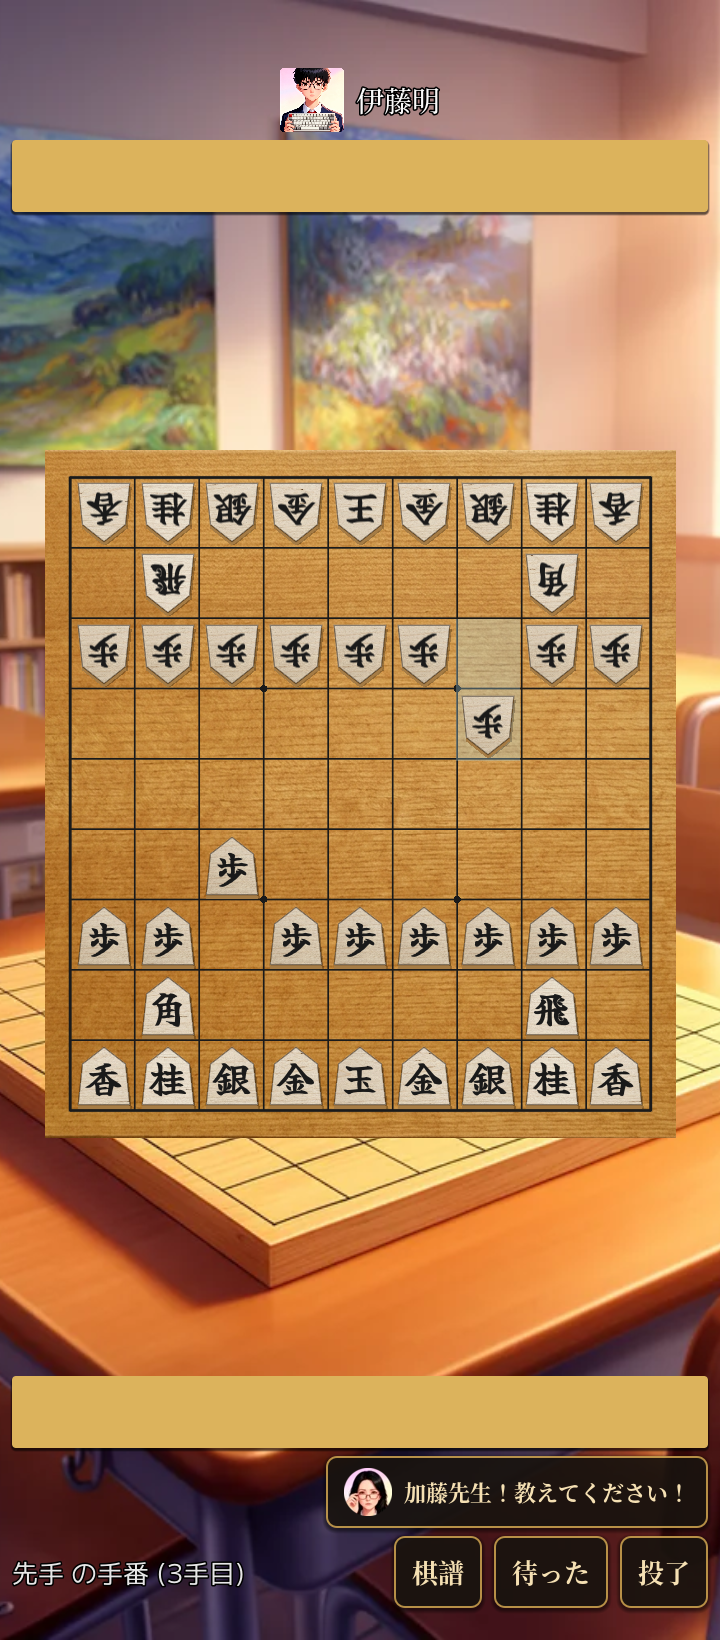
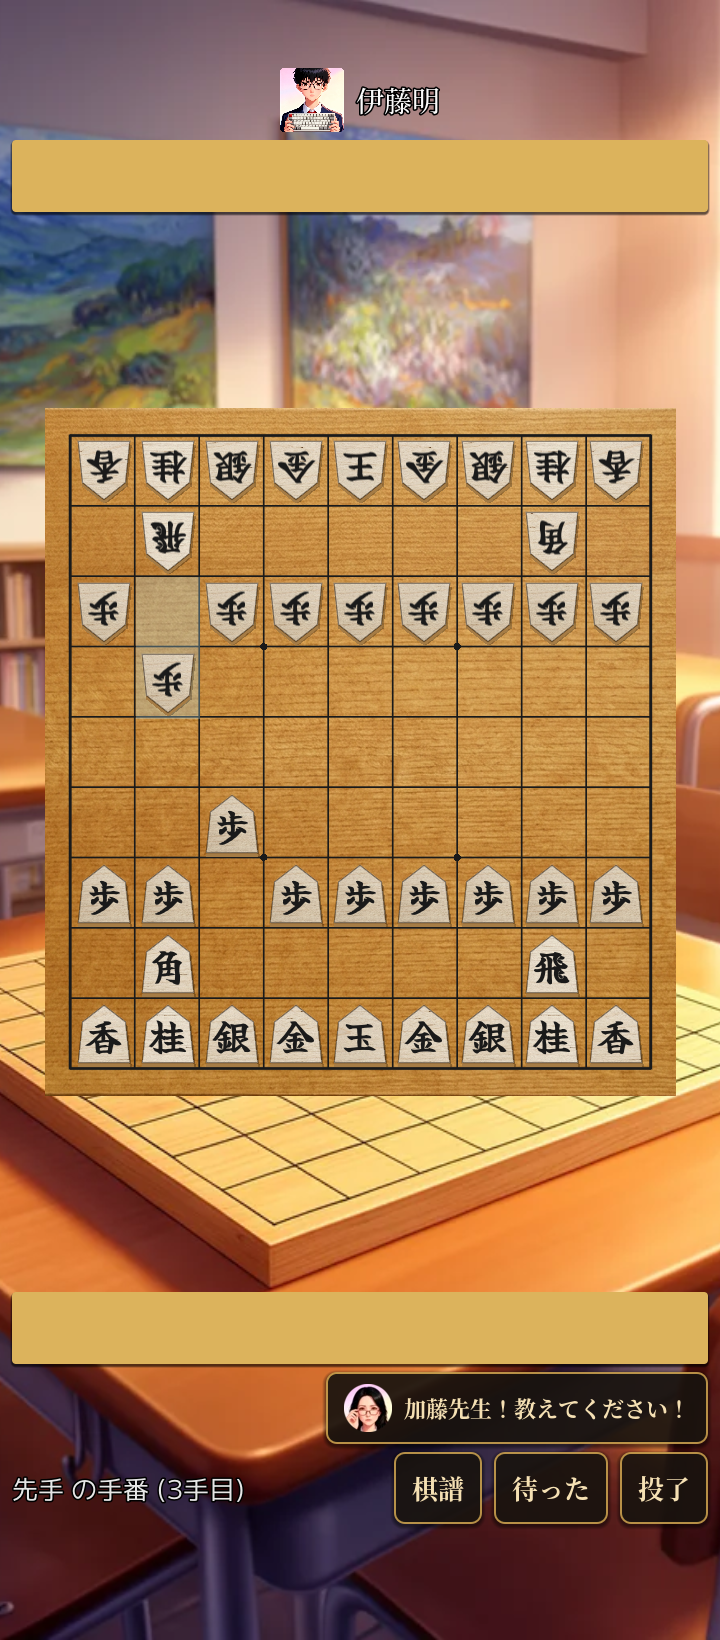
docs: refresh screenshots for 1.0.10, note Mochiy Pop One and bottom inset
Retake all six README captures on the 1.0.10 release build so they
show the new title / heading face and the nav-bar-sized bottom
clearance. android-gotchas gains the immersive-mode bottom-inset
gotcha next to the existing horizontal one; architecture.md lists
each vendored font's role.

diff --git a/docs/android-gotchas.md b/docs/android-gotchas.md
@@ -142,7 +142,8 @@ item_rect_changed.connect(func():
   combined a few MB once Godot imports them to compressed textures.
 - ONNX model — 12 MB (Bonanza v2; v1 was 1.3 MB).
 - Vendored Japanese fonts (subset) — Fude Goshirae 175 KB +
-  Noto Serif JP Medium/Bold ~270 KB each + M PLUS 2 ~91 KB.
+  Noto Serif JP Medium/Bold ~290 KB each + M PLUS 2 ~94 KB +
+  Mochiy Pop One (title / headings) ~113 KB.
 
 **Cheap wins (already taken):**
 - Font subsetting via `tools/build_font_subsets.py` — Fude Goshirae
@@ -247,4 +248,23 @@ need avoiding, so the horizontal safe-area term is spurious.
 
 **Fix:** apply safe-area insets **only vertically** (top / bottom).
 Keep a small fixed `EXTRA_H` on both sides for aesthetic breathing
-room. See `_apply_safe_area` in `scripts/game/GameController.gd`.
+room. See `Settings.safe_area_insets` in `scripts/autoload/Settings.gd`.
+
+## Bottom edge sits under the gesture / navigation bar
+
+**Symptom:** the status row, dialog buttons or the version badge hug
+the very bottom of the screen and collide with the gesture pill /
+3-button navigation bar, while the top correctly clears the camera
+cutout.
+
+**Cause:** `screen/immersive_mode=true` hides the navigation bar, and
+`DisplayServer.get_display_safe_area()` then only reports the display
+cutout (top). The bottom inset collapses to the fixed `EXTRA_BOTTOM`
+pad — Android never tells Godot how tall the hidden bar is.
+
+**Fix:** `Settings.safe_area_insets` takes
+`max(reported bottom, 48 dp × screen DPI / 160)` on Android before
+adding the pad, so the bottom always reserves a navigation-bar-sized
+band (3-button height; the gesture zone is smaller). Every fullscreen
+screen goes through that helper, so don't hand-roll inset math in a
+new scene.

diff --git a/README.md b/README.md
@@ -22,7 +22,7 @@ Android 7.0（API 24）以降 / arm64-v8a。Google Play ストアは方針とし
 
 | タイトル画面 | 対戦相手選択 | 対局画面 |
 |:---:|:---:|:---:|
-| <img src="docs/screenshots/01_main_menu.png" width="220" alt="タイトル画面 — 対局モード・対戦相手を選び、設定 / 続きから / 棋譜検討 / 新規対局へ進む。"> | <img src="docs/screenshots/02_character_picker.png" width="220" alt="対戦相手選択画面 — 8 人の部員・先生から指す相手を選ぶ。上半分に選択中キャラの肖像と紹介、下半分に Lv 1〜8 のグリッド。"> | <img src="docs/screenshots/03_in_game_start.png" width="220" alt="Lv 4（伊藤明）との対局序盤（7六歩 3四歩）。上部バーに対戦相手の肖像と名前、下部に「加藤先生！教えてください！」ボタンを配置。"> |
+| <img src="docs/screenshots/01_main_menu.png" width="220" alt="タイトル画面 — 対局モード・対戦相手を選び、設定 / 続きから / 棋譜検討 / 新規対局へ進む。"> | <img src="docs/screenshots/02_character_picker.png" width="220" alt="対戦相手選択画面 — 8 人の部員・先生から指す相手を選ぶ。上半分に選択中キャラの肖像と紹介、下半分に Lv 1〜8 のグリッド。"> | <img src="docs/screenshots/03_in_game_start.png" width="220" alt="Lv 4（伊藤明）との対局序盤（7六歩 8四歩）。タイトルや見出しはポップ体 Mochiy Pop One。上部バーに対戦相手の肖像と名前、下部に「加藤先生！教えてください！」ボタンを配置。"> |
 
 | 先生モード | 棋譜検討（一覧） | 棋譜検討（解析） |
 |:---:|:---:|:---:|

diff --git a/docs/architecture.md b/docs/architecture.md
@@ -193,8 +193,12 @@ rewinding `_core` in place: [ADR-0008](./adr/0008-review-mode-scratch-core.md).
   [`mcts.rs`](../native/shogi_core/src/mcts.rs).
 - **New UI font** — subset pipeline in
   [`tools/build_font_subsets.py`](../tools/build_font_subsets.py); add
-  the `-full.otf` original under `assets/fonts/`, keep the subset under
-  the canonical filename. The script re-scans strings automatically.
+  the `-full.otf` / `-full.ttf` original under `assets/fonts/`, keep the
+  subset under the canonical filename, and add a `subset(...)` call to
+  the script. The script re-scans strings automatically. Current roles:
+  Fude Goshirae = piece kanji, Noto Serif JP = body text / buttons,
+  M PLUS 2 = secondary labels, Mochiy Pop One = title / screen
+  headings / opponent name / 王手 banner.
 - **New visual asset (ComfyUI output, illustrations, icons)** — drop
   under the folder that matches its role: `assets/backgrounds/` for
   gutter / full-screen decoration, `assets/ui/` for button/icon art,
